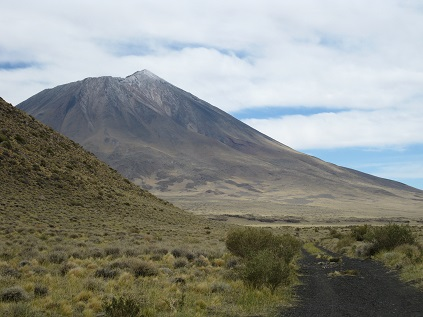
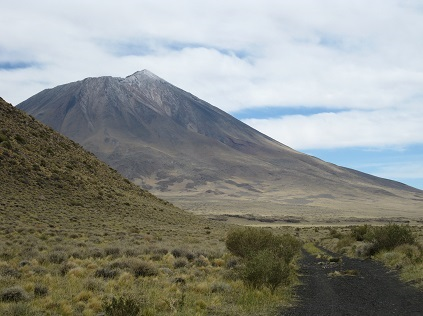
carrito-ok-03

diff --git a/index.html b/index.html
@@ -65,13 +65,17 @@
             <form action="https://formspree.io/f/xkjgkrkr" method="POST"> 
                 <!-- Campo oculto para redirección -->
                 <input type="hidden" name="_redirect" value="https://tusitio.com/gracias.html">
-                <p>Origen</p>
-                <input type="text" name="origen" required><br>
+                <p>Origen</p>                
+                <select id="origen" name="origen">
+                    <div id="desplegable1"></div>
+                </select>                
                 <P>Destino</P>
-                <input type="text" name="destino" required><br>
+                <select id="destino" name="destino">
+                    <div id="desplegable2"></div>
+                </select>
                 <p>Dirección de correo</p>
                 <input type="email" name="email" required><br>
-                <p>Cuéntenos qué es lo que le gustaría hacer y lo cotizaremos</p>
+                <p>Cuéntenos qué le gustaría hacer y lo cotizaremos</p>
                 <textarea name="mensaje" rows="8" cols="90"></textarea><br>
                 <button type="submit" class="boton">Cotizar</button>
             </form>
@@ -161,6 +165,7 @@
     <script src="./js/productos.js"></script>
     <script src="./js/carrito.js"></script>
     <script src="./js/mostrarProductos.js"></script>
+    <script src="./js/ciudades.js"></script>
 
 </body>
 </html>

diff --git a/js/ciudades.js b/js/ciudades.js
@@ -1,0 +1,47 @@
+// desplegable con lista de ciudades
+
+const texto = `Ciudad Autónoma de Buenos Aires
+Córdoba
+Corrientes
+Formosa
+La Plata
+La Rioja
+Mendoza
+Neuquén
+Paraná
+Posadas
+Rawson
+Resistencia
+Río Gallegos
+Salta
+San Fernando del Valle de Catamarca
+San Juan
+San Luis
+San Miguel de Tucumán
+San Salvador de Jujuy
+Santa Fe
+Santa Rosa
+Santiago del Estero
+Ushuaia
+Viedma`;
+
+const ciudades = texto.split(/\r?\n/);
+
+const desplegable1 = document.getElementById("desplegable1");
+ciudades.forEach(ciudad => {
+    const nuevaOpcion = document.createElement("div");
+    nuevaOpcion.innerHTML = `
+        <option value="${ciudad}">${ciudad}</option>
+        `
+    desplegable1.appendChild(nuevaOpcion);
+});
+const desplegable2 = document.getElementById("desplegable2");
+ciudades.forEach(ciudad => {
+    const nuevaOpcion = document.createElement("div");
+    nuevaOpcion.innerHTML = `
+        <option value="${ciudad}">${ciudad}</option>
+        `
+    desplegable2.appendChild(nuevaOpcion);
+});
+
+
